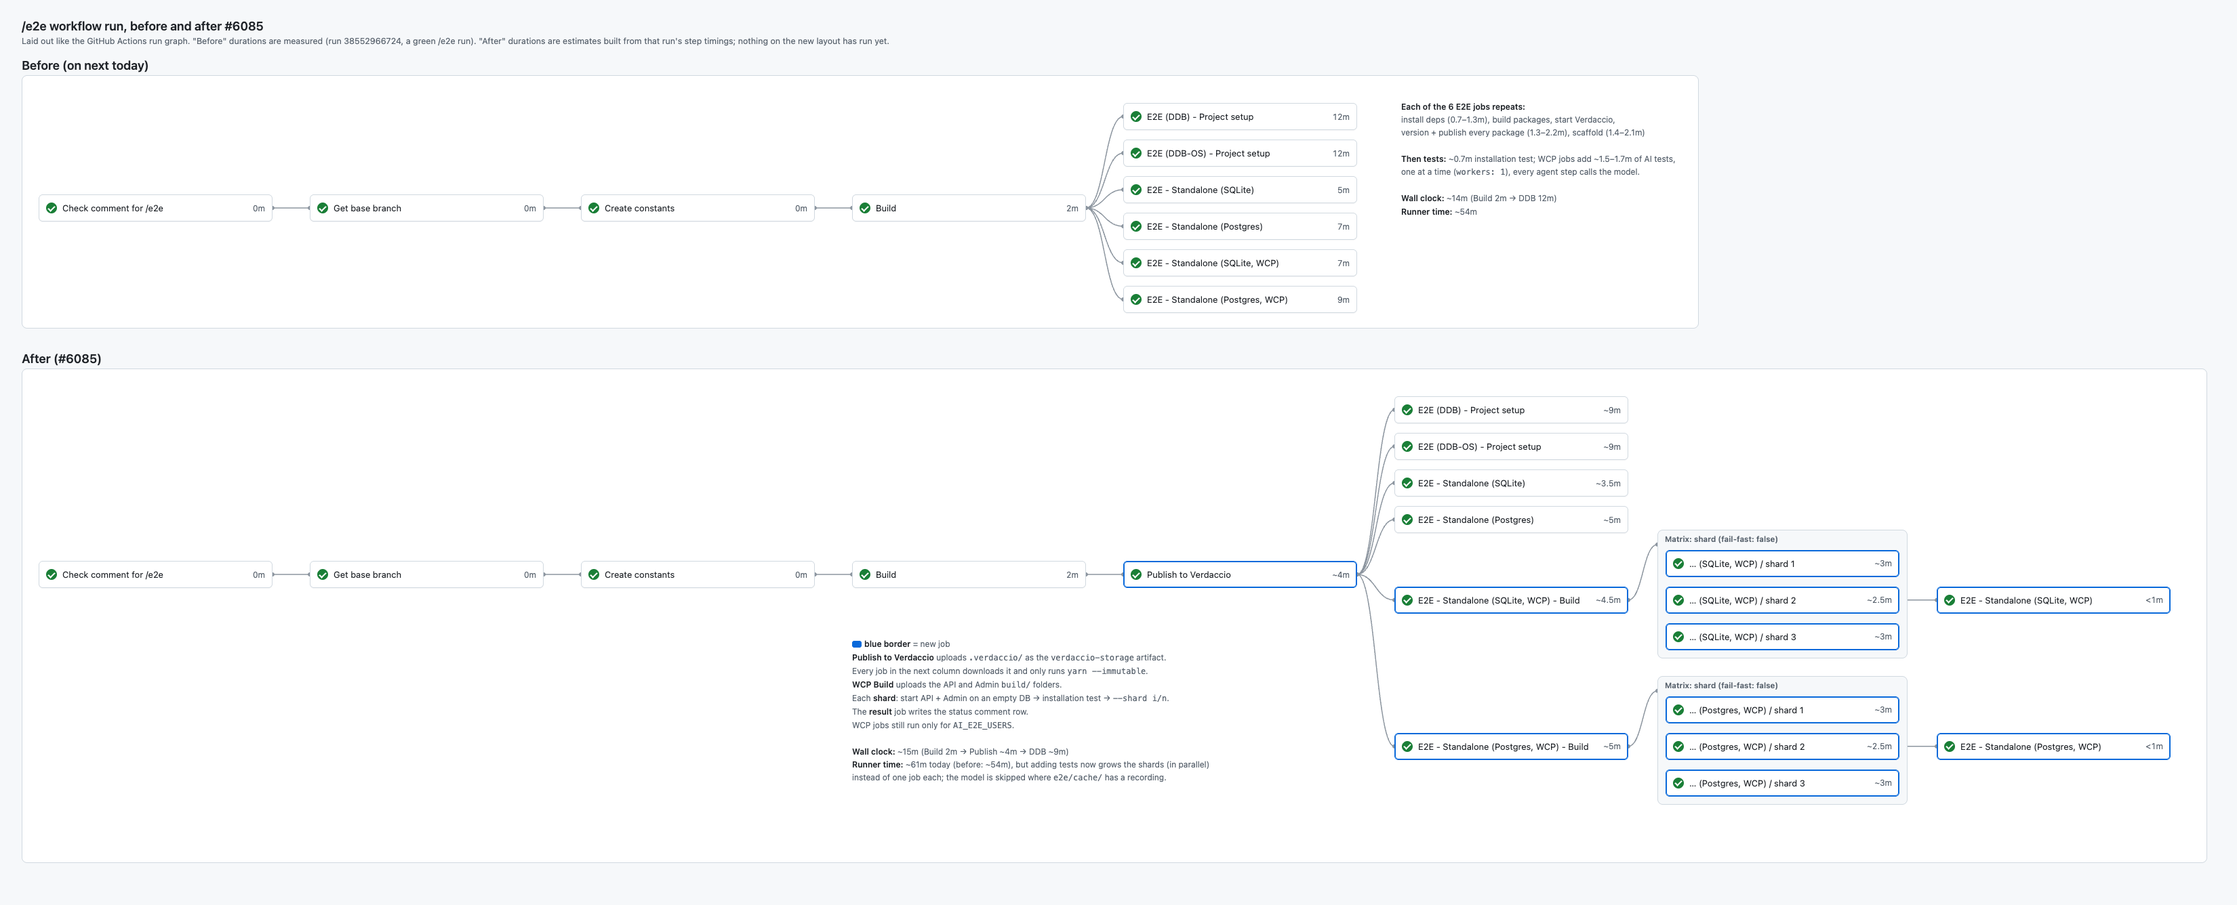
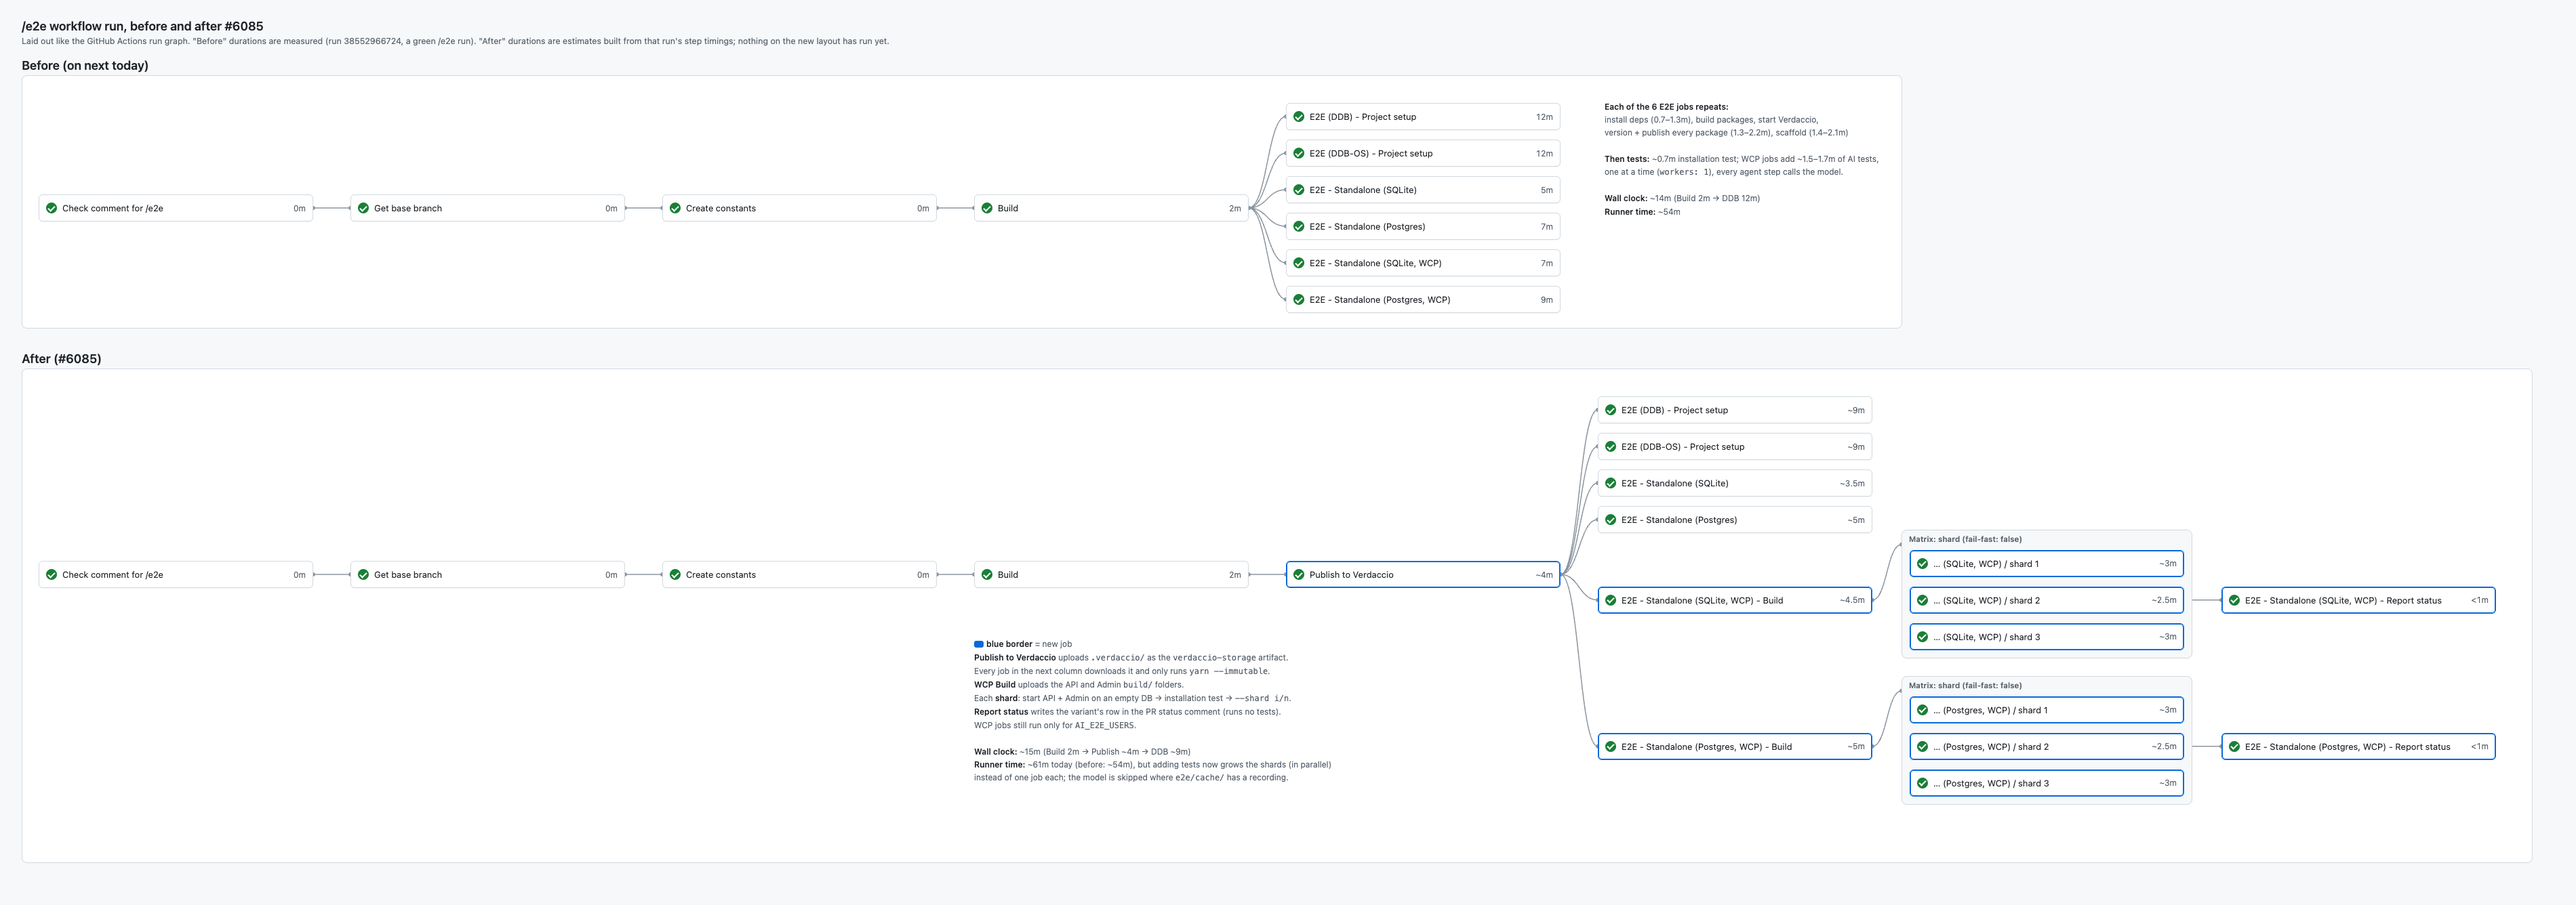
ci(e2e): name the WCP result jobs "Report status"
They write the status comment row and run no tests. Named after the
variant alone, they looked like a fourth test job in the run graph.

diff --git a/.github/workflows/wac/e2e/createStandaloneJobs.ts b/.github/workflows/wac/e2e/createStandaloneJobs.ts
@@ -356,7 +356,7 @@ export interface WcpVariant {
  * - build: scaffolds and builds the project once, and uploads the API and Admin build folders.
  * - tests: one job per shard. Each starts its own API and Admin from those folders, on its own empty
  *   database, runs the installation test to create the admin user, then its slice of the suite.
- * - result: writes the shards' combined result into the status comment. The shards can't each do
+ * - report status: writes the shards' combined result into the status comment. The shards can't each do
  *   it: they would race on the same row.
  */
 export const createWcpStandaloneJobs = ({ storageOps, shards }: WcpVariant) => {
@@ -444,7 +444,7 @@ export const createWcpStandaloneJobs = ({ storageOps, shards }: WcpVariant) => {
 
     const resultJob = createJob({
         needs: ["checkComment", jobKeys.build, jobKeys.tests],
-        name: `E2E - ${label}`,
+        name: `E2E - ${label} - Report status`,
         // Also after a failed or skipped build or shard, which is when the row most needs updating.
         // Not for people outside AI_E2E_USERS: the row doesn't exist in their comment.
         if: `\${{ !cancelled() && needs.checkComment.outputs.comment-id != '' && ${IS_AI_E2E_RUN} }}`,
